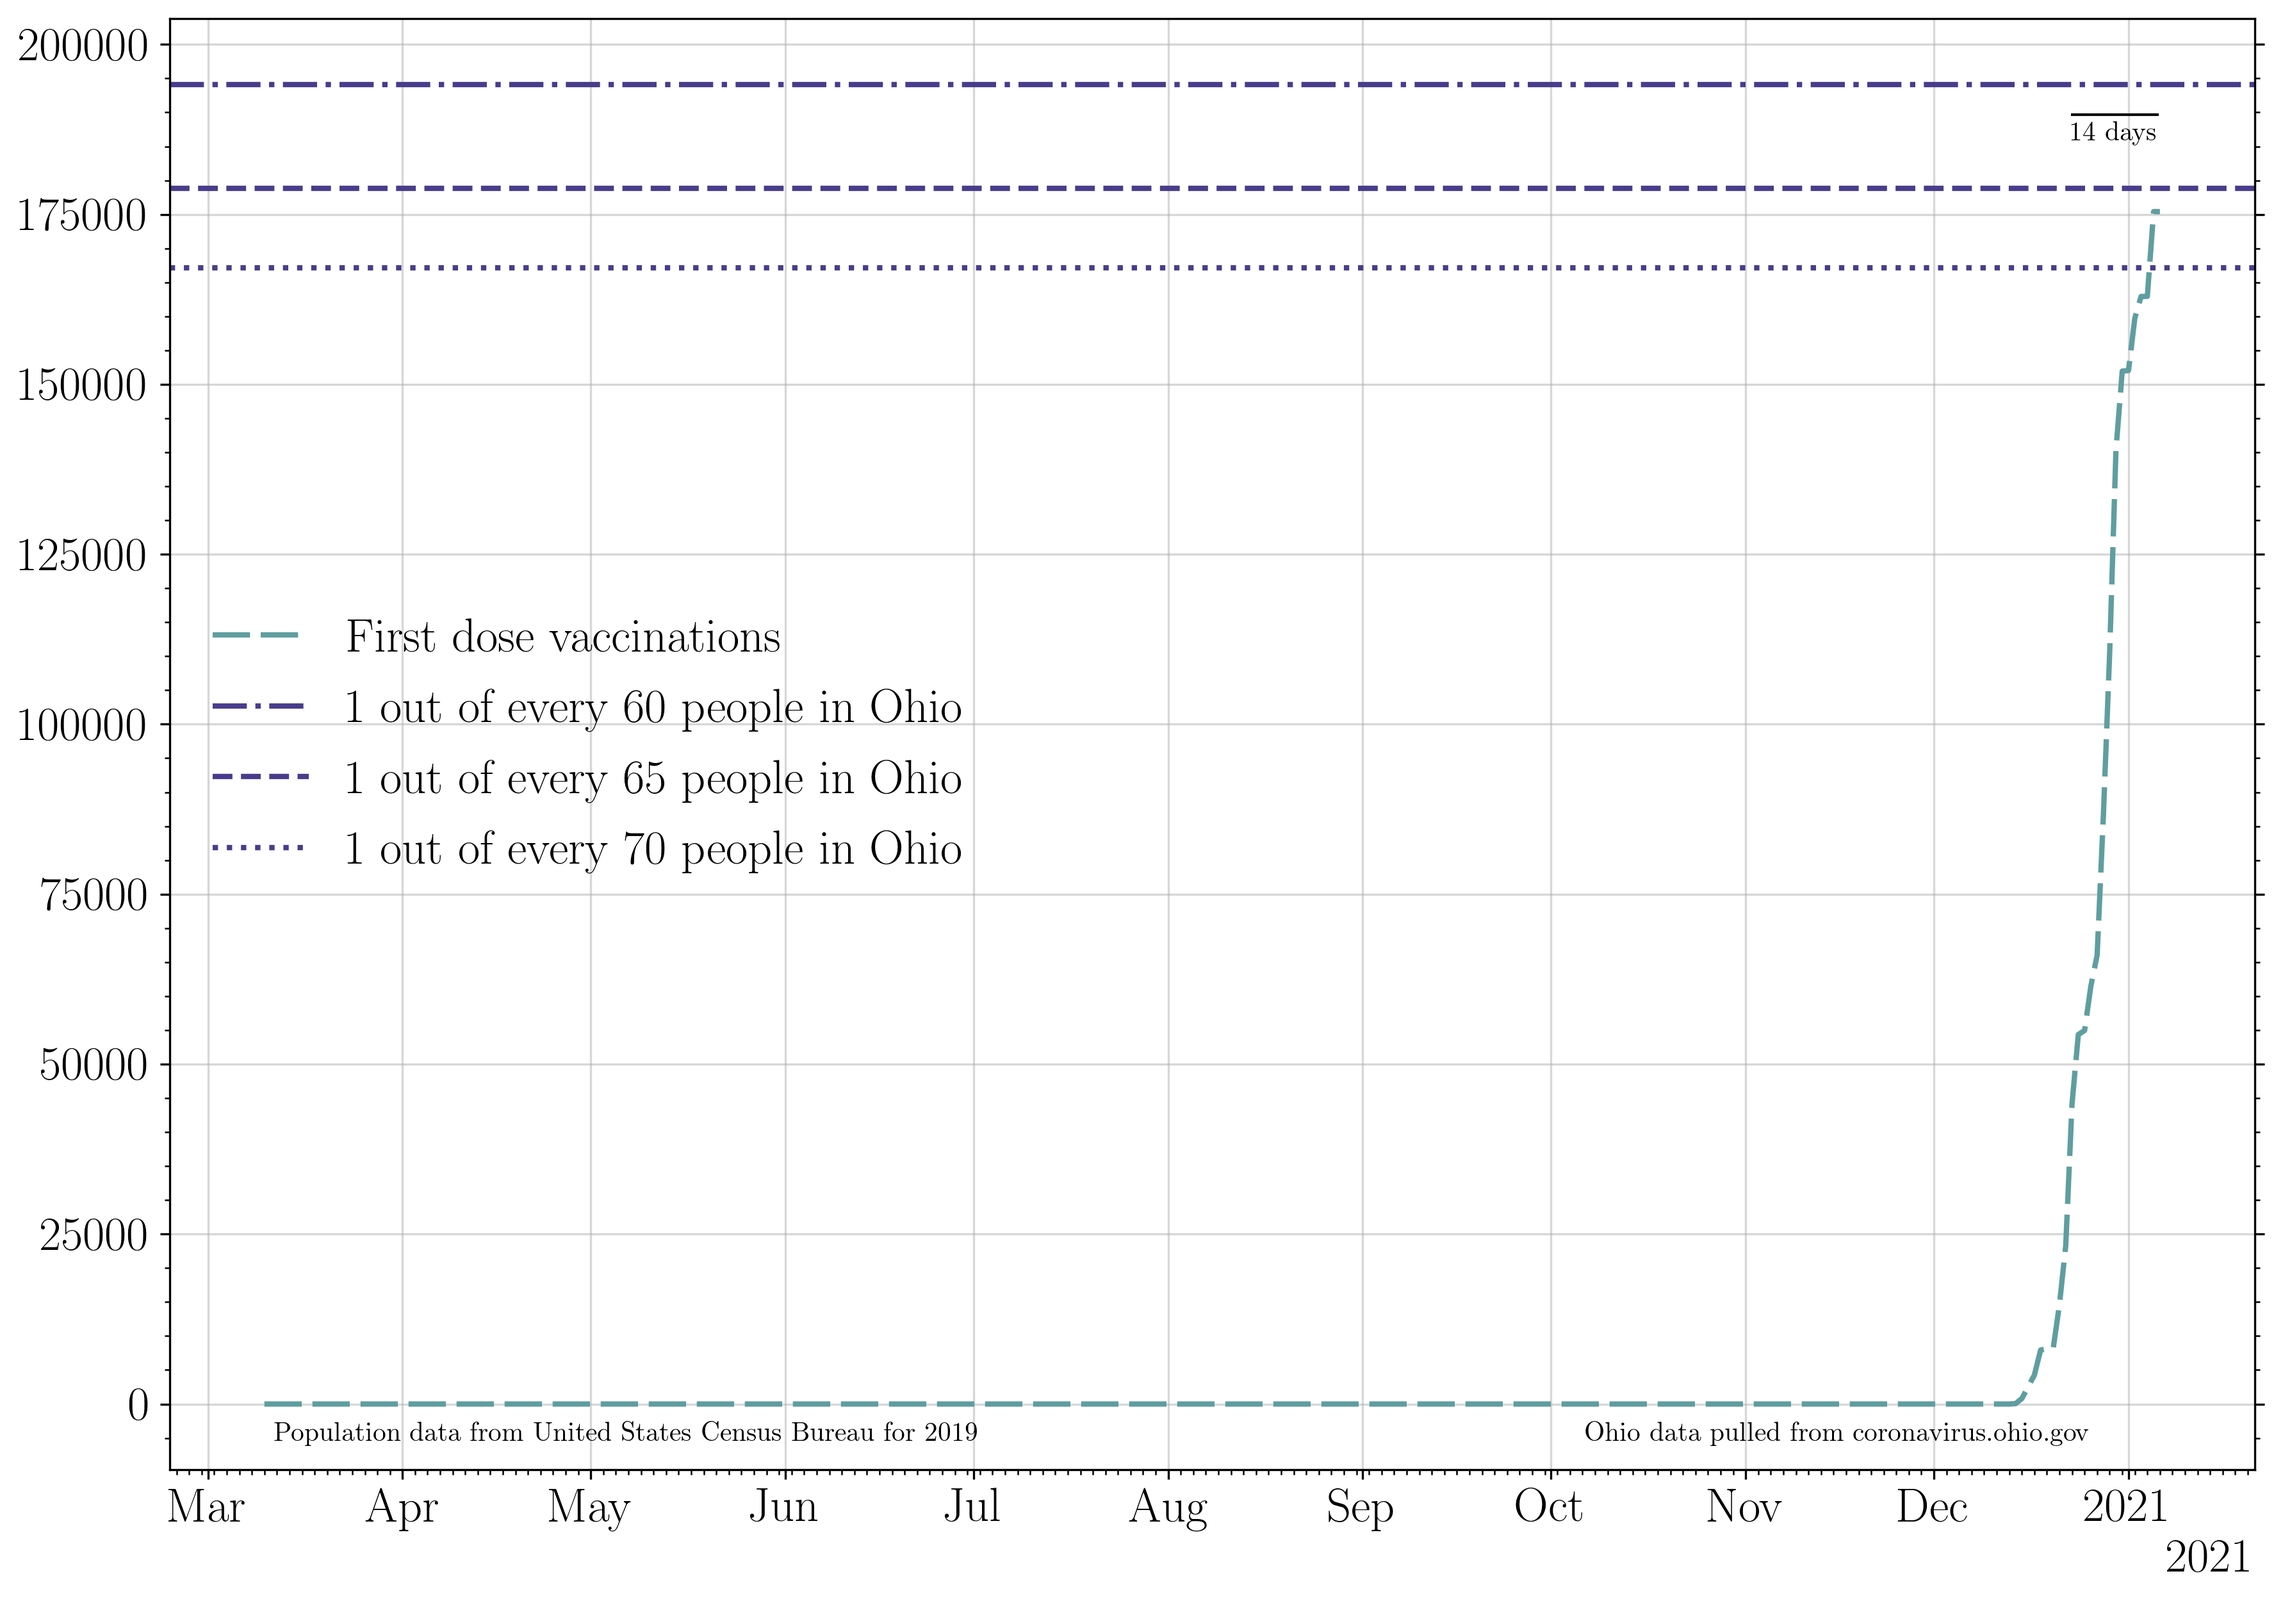
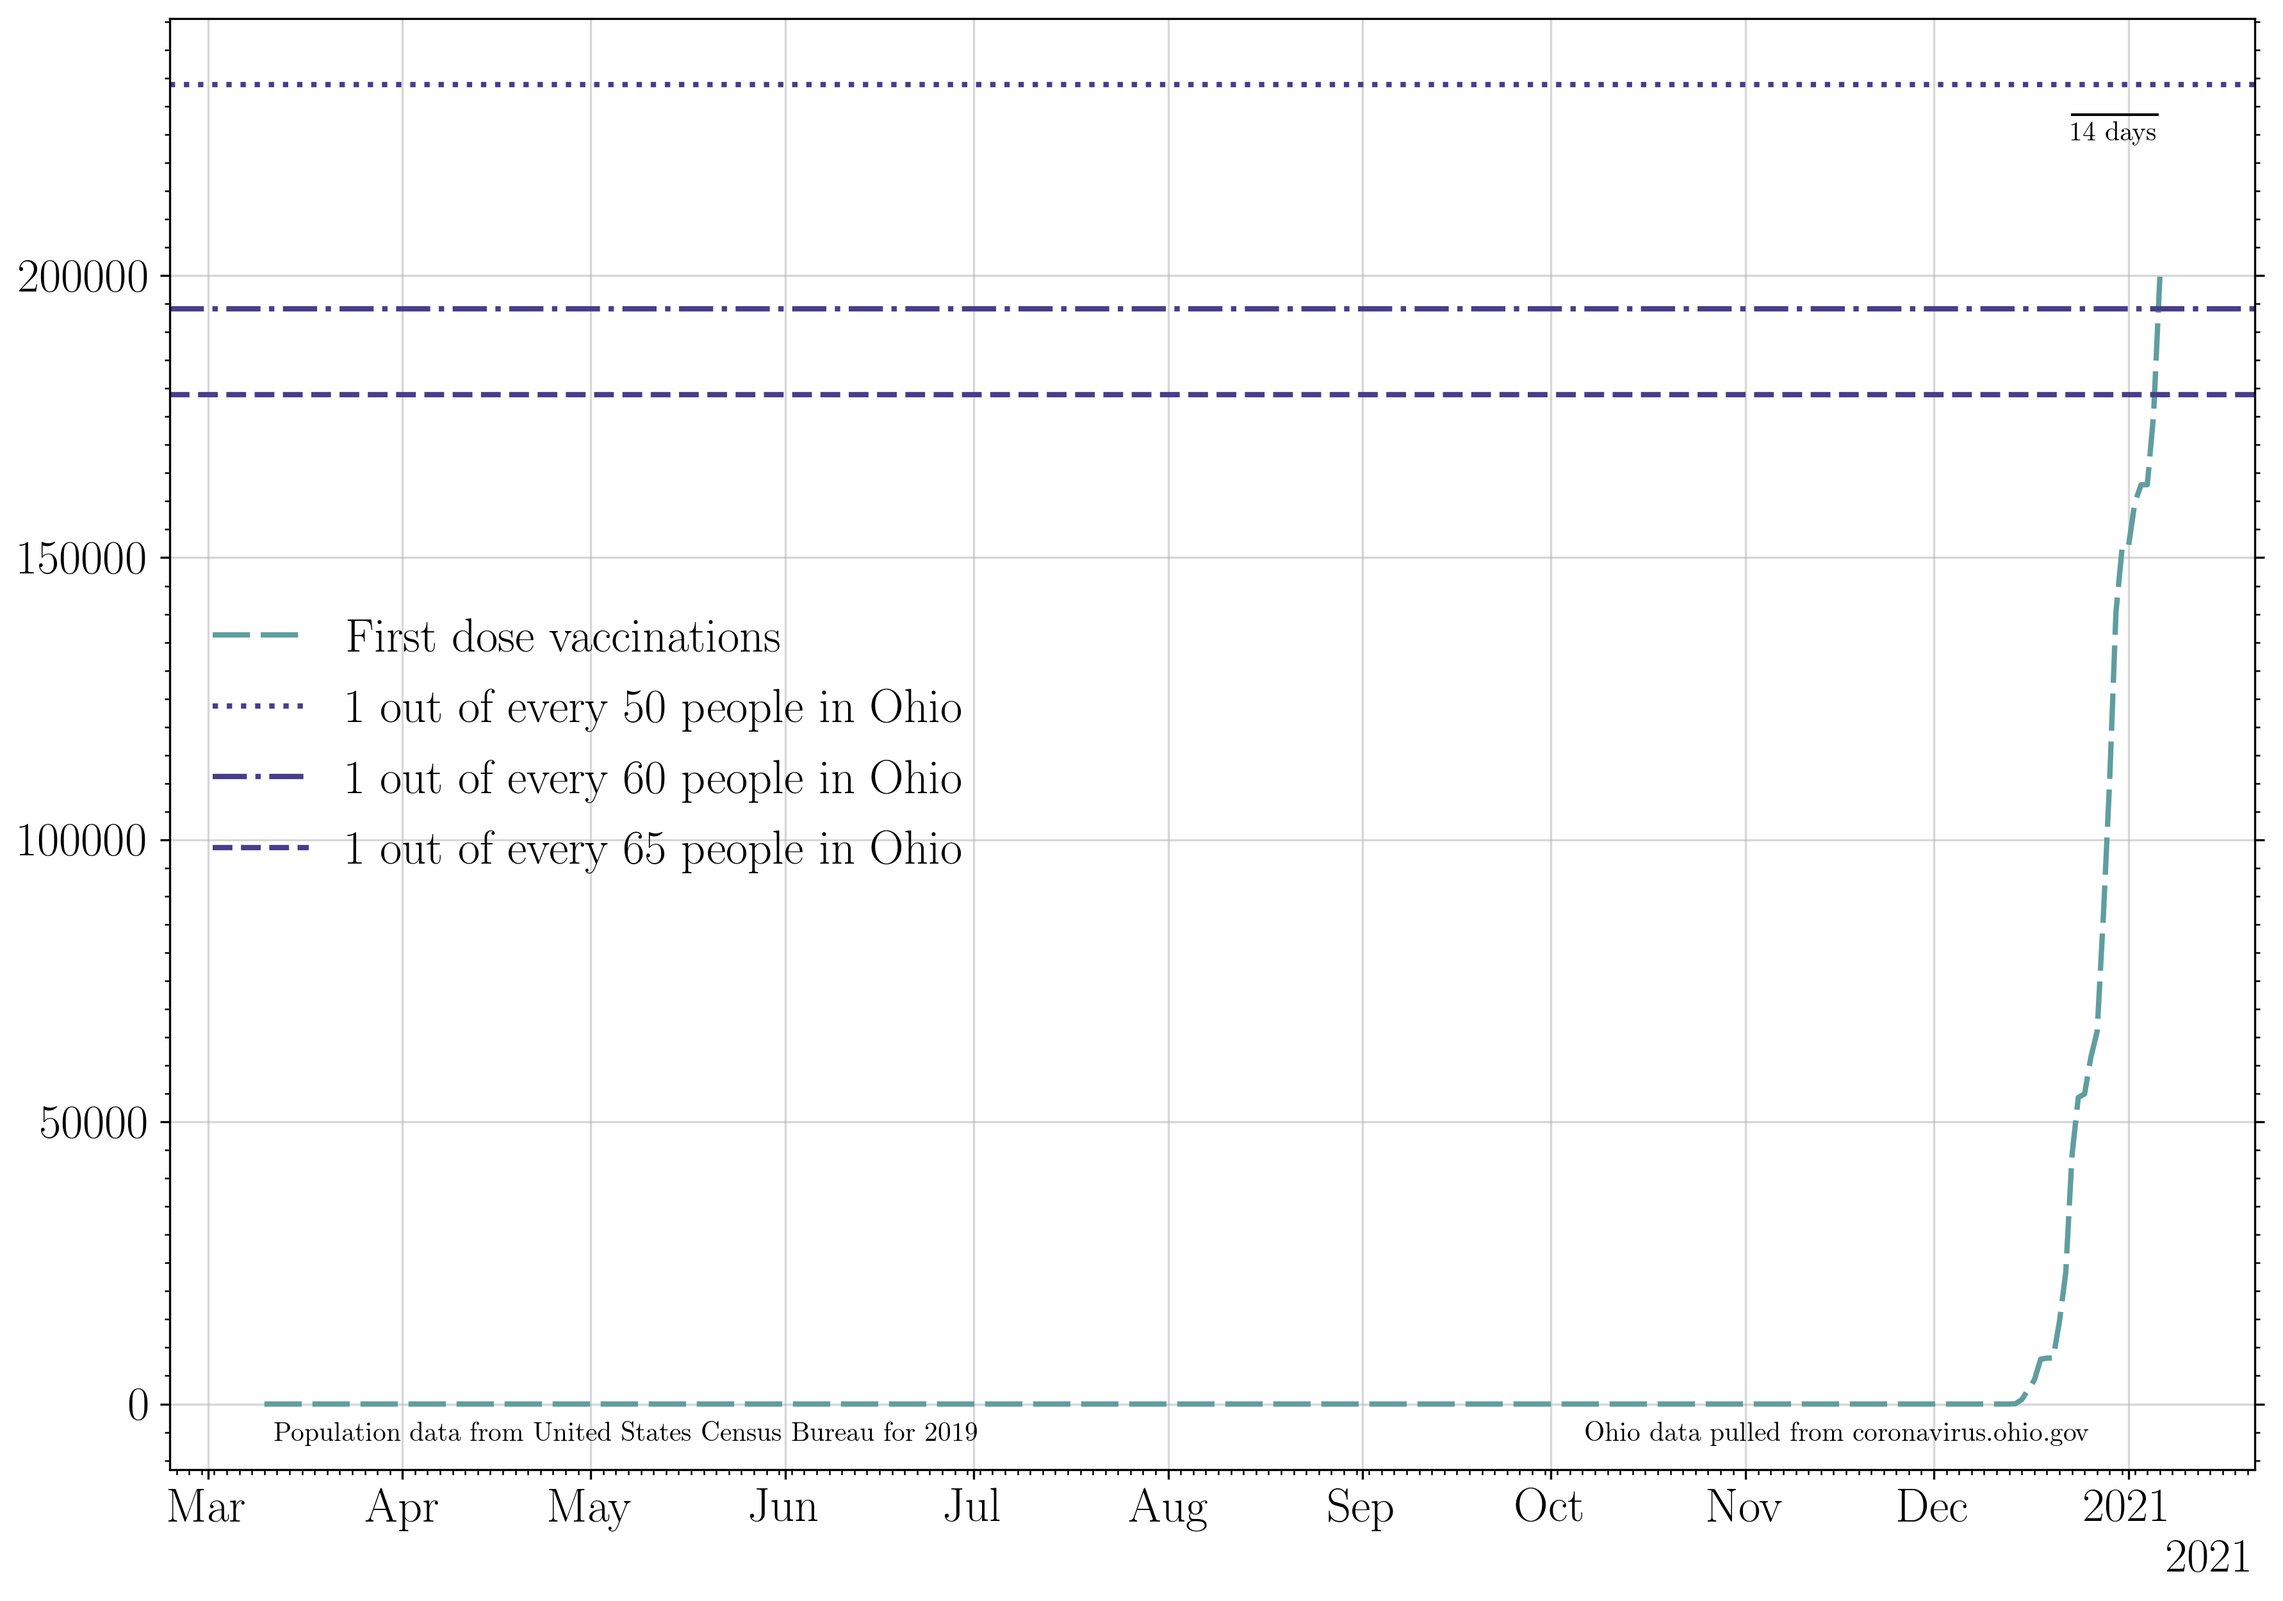
Jan 06 vaccination numbers update

diff --git a/index.md b/index.md
@@ -1,6 +1,6 @@
 ## Plotting publicly available COVID data for the state of Ohio. 
 
-Last updated: Jan 06 2021. 
+Last updated: Jan 07 2021. 
 
 **Dec 8th completes a backlog of reporting of antigen test results, dating back to Nov 1st.**
 
@@ -11,18 +11,18 @@ The 7 day averages for the daily increase in cases, hospitalizations, ICU admiss
 
 >The average increase in cases for the last seven days is: 7438.0
 >
->The last time cases per day were this high was Jan 05 2021: 1 day ago.
+>The last time cases per day were this high was Jan 05 2021: 2 days ago.
 >
 >The seven day average then was: 7490 cases.
 
 >
->The last time cases per day was lower than this was Jan 03 2021: 3 days ago.
+>The last time cases per day was lower than this was Jan 03 2021: 4 days ago.
 >
 >The seven day average then was: 7279 cases.
 >
 >The lowest 7 day average reported cases per day in the last three weeks was on Dec 29 2020.
 >
->This was 8 days ago. The average was 6505 cases per day.
+>This was 9 days ago. The average was 6505 cases per day.
 >
 >The current 7 day average case rate is an increase of 14.3 percent with respect to that minimum.
 
@@ -33,7 +33,7 @@ The 7 day averages for the daily increase in hospitalizations, ICU admissions, a
 >
 >The lowest 7 day average reported hospitalizations per day in the last three weeks was on Dec 26 2020.
 >
->This was 11 days ago. The average was 280 hospitalizations per day.
+>This was 12 days ago. The average was 280 hospitalizations per day.
 >
 >The current 7 day average hospitalization rate is an increase of 7.1 percent with respect to then.
 
@@ -46,11 +46,11 @@ The raw daily increase in cases, hospitalizations, ICU admissions, and deaths. T
 
 >The increase in cases from yesterday to today: 7814.0 
 >
->The last time cases per day were this high was Jan 02 2021: 4 days ago. 
+>The last time cases per day were this high was Jan 02 2021: 5 days ago. 
 >
 >The case rate then was 14293 cases.
 >
->The last time cases per day were lower than this was Jan 05 2021: 1 day ago. 
+>The last time cases per day were lower than this was Jan 05 2021: 2 days ago. 
 >
 >The case rate then was 7580 cases.
 
@@ -66,7 +66,7 @@ The percent of each day's new reported tests which represent that day's new repo
 
 >The lowest 7 day average reported positive test fraction per day in the last three weeks was on Dec 28 2020.
 >
->This was 9 days ago. The average was 15.1 percent positive. 
+>This was 10 days ago. The average was 15.1 percent positive. 
 >
 >The current average positive test rate is 18.3 percent, a change of 21.2 percent with respect to then. 
 
@@ -81,5 +81,5 @@ The cumulative number of hospitalizations, ICU admissions, and deaths. If no new
 The cumulative number of first round vaccinations. If no new events were reported, these lines would be horizontal.
 ![](Vaccinations.png)
 
->The current total number of vaccinations is equivalent to 1 person out of every 66 in the state of Ohio having begun their vaccination sequence.
+>The current total number of vaccinations is equivalent to 1 person out of every 58 in the state of Ohio having begun their vaccination sequence.
 
